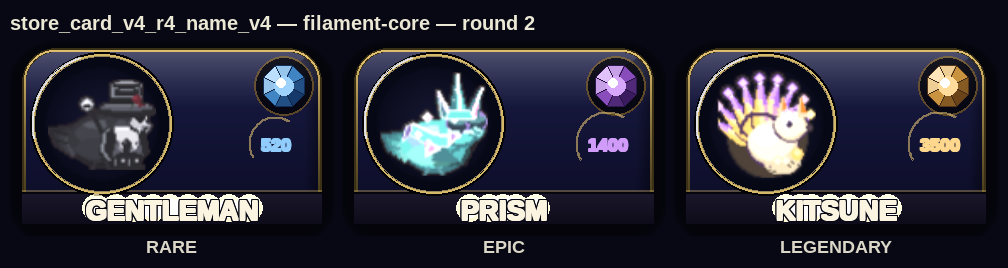
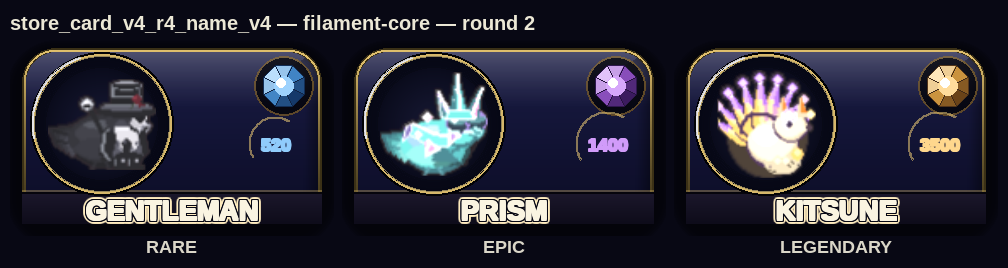
Update filament-core and engraved-strike round 2 (agent final revisions)
Claude-Session: https://claude.ai/code/session_011726ot8uBSmurQVaEkGY6K

diff --git a/tools/_store_card_v4_r4_name_v4_filament_core_r2.py b/tools/_store_card_v4_r4_name_v4_filament_core_r2.py
@@ -22,6 +22,16 @@ _INSET = 6
 R = 36
 
 
+# Warm-bleed halo painted outer-ring first, inner-ring last, with a warm-white
+# hot core immediately at the stroke fading to the (255,236,190) glow tint by
+# 3px out. Normal-alpha (not additive): compositing displaces the navy's blue
+# toward the warm hue, which is the only way the fixed palette can read warm
+# (R-B) AND bright at once — additive over navy keeps blue too high to be warm.
+_FILAMENT_RINGS = ((3, 90, (255, 236, 190)),
+                   (2, 160, (255, 236, 190)),
+                   (1, 210, (255, 255, 252)))
+
+
 def _name_filament_core(big, name, cx, cy, max_w):
     sz = 13.5
     f = font(sz)
@@ -32,23 +42,27 @@ def _name_filament_core(big, name, cx, cy, max_w):
     advances = [f.size(c)[0] for c in name]
     total_w = sum(advances)
 
-    # Inverted layering vs r1: the warm halo is composited BEFORE the crisp
-    # glyph so its outer spill survives in the navy band instead of hiding
-    # under an opaque fill. Radial soft_glow is anchored per-letter so light
-    # bleeds a few px past each stroke yet never bridges the dark inter-glyph
-    # gaps (no shared bar) — each letter reads as its own heated filament.
-    halo_surf = pygame.Surface(big.get_size(), pygame.SRCALPHA)
-
+    # Inverted layering vs r1: the warm halo is a dilated per-glyph SILHOUETTE
+    # composited BEFORE the crisp glyph, so its bleed survives in the navy band
+    # instead of hiding under an opaque fill. Hugging each stroke (not a centre
+    # blob) keeps letter counters and inter-glyph gaps dark — no shared bar —
+    # so every letter reads as its own heated filament element.
     x = cx - total_w // 2
     for char, adv in zip(name, advances):
         glyph_cx = x + adv // 2
-        # Tight warm-white core, then a wider warm-ivory tint — the incandescent
-        # falloff of tube lighting where the element glows hottest at its edge.
-        soft_glow(halo_surf, glyph_cx, cy - m(1), m(5), (255, 255, 252), 60, layers=3)
-        soft_glow(halo_surf, glyph_cx, cy - m(1), m(7), (255, 236, 190), 40, layers=2)
+        tile = _stamp_bold(_glyph_base(char, f, 0), m(0.8))
+        tw, th = tile.get_size()
+        bx, by = glyph_cx - tw // 2, cy - th // 2
+        for rad, alpha, col in _FILAMENT_RINGS:
+            tinted = tile.copy()
+            tinted.fill((*col, alpha), special_flags=pygame.BLEND_RGBA_MULT)
+            steps = max(8, rad * 10)
+            for s in range(steps):
+                ang = 2 * math.pi * s / steps
+                dx = int(round(rad * math.cos(ang)))
+                dy = int(round(rad * math.sin(ang)))
+                big.blit(tinted, (bx + dx, by + dy))
         x += adv
-
-    big.blit(halo_surf, (0, 0), special_flags=pygame.BLEND_ADD)
 
     # Crisp ivory glyph on top with a hairline keyline — thinner than r1 so the
     # warm light survives immediately outside each stroke rather than being

diff --git a/tools/_store_card_v4_r4_name_v4_engraved_strike_r2.py b/tools/_store_card_v4_r4_name_v4_engraved_strike_r2.py
@@ -56,13 +56,14 @@ def _name_engraved_strike(big, name, cx, cy, max_w):
         # 2. Warm ivory mid-catch at bottom-right (+1,+1): the soft intermediate
         #    step of the lit wall before the crisp specular edge.
         ivory = tile.copy()
-        ivory.fill((250, 244, 225, 180), special_flags=pygame.BLEND_RGBA_MULT)
+        ivory.fill((250, 244, 225, 120), special_flags=pygame.BLEND_RGBA_MULT)
         big.blit(ivory, (dst_x + 1, dst_y + 1))
 
         # 3. CARD_RING_BRIGHT hairline at bottom-right (+1,+1): the crisp lit edge
-        #    of the cut wall facing the raking light. Hairline only.
+        #    of the cut wall facing the raking light. Hairline only — kept bright
+        #    so the surviving rim peaks in the specular range, not the soft skirt.
         catch = tile.copy()
-        catch.fill((*CARD_RING_BRIGHT, 140), special_flags=pygame.BLEND_RGBA_MULT)
+        catch.fill((*CARD_RING_BRIGHT, 165), special_flags=pygame.BLEND_RGBA_MULT)
         big.blit(catch, (dst_x + 1, dst_y + 1))
 
         # 4. Recess floor at (0,0), LAST: a near-black stencil that carves the
